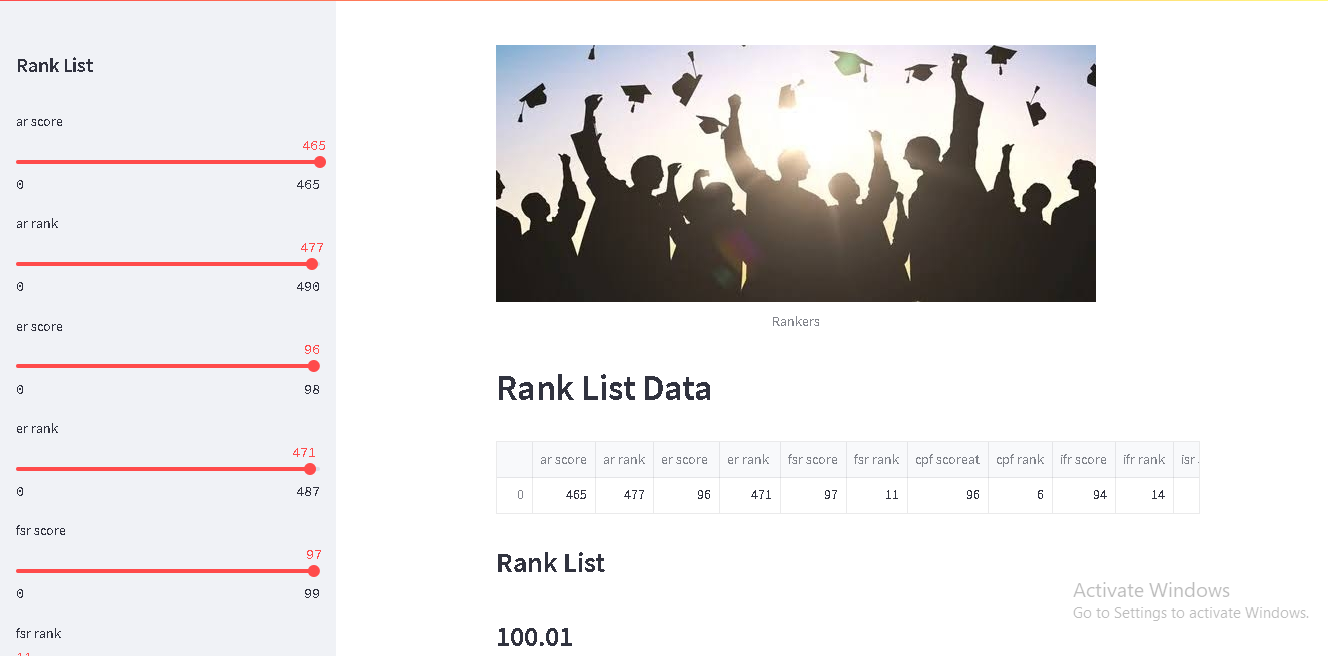
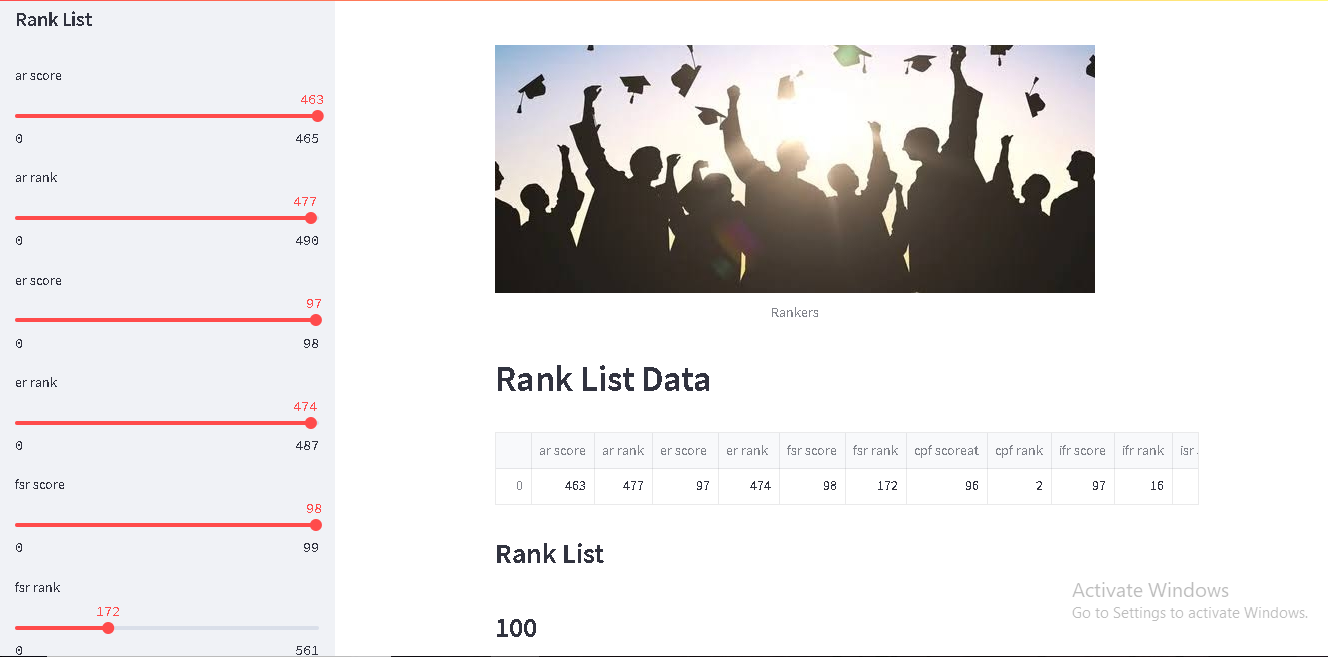
Add files via upload

diff --git a/app.py b/app.py
@@ -63,4 +63,4 @@ st.write(user_data)
 
 Rank = model.predict(user_data)
 st.subheader('Rank List')
-st.subheader(str(np.round(Rank[0], 2)))
+st.subheader(int(np.round(Rank[0], 2)))
